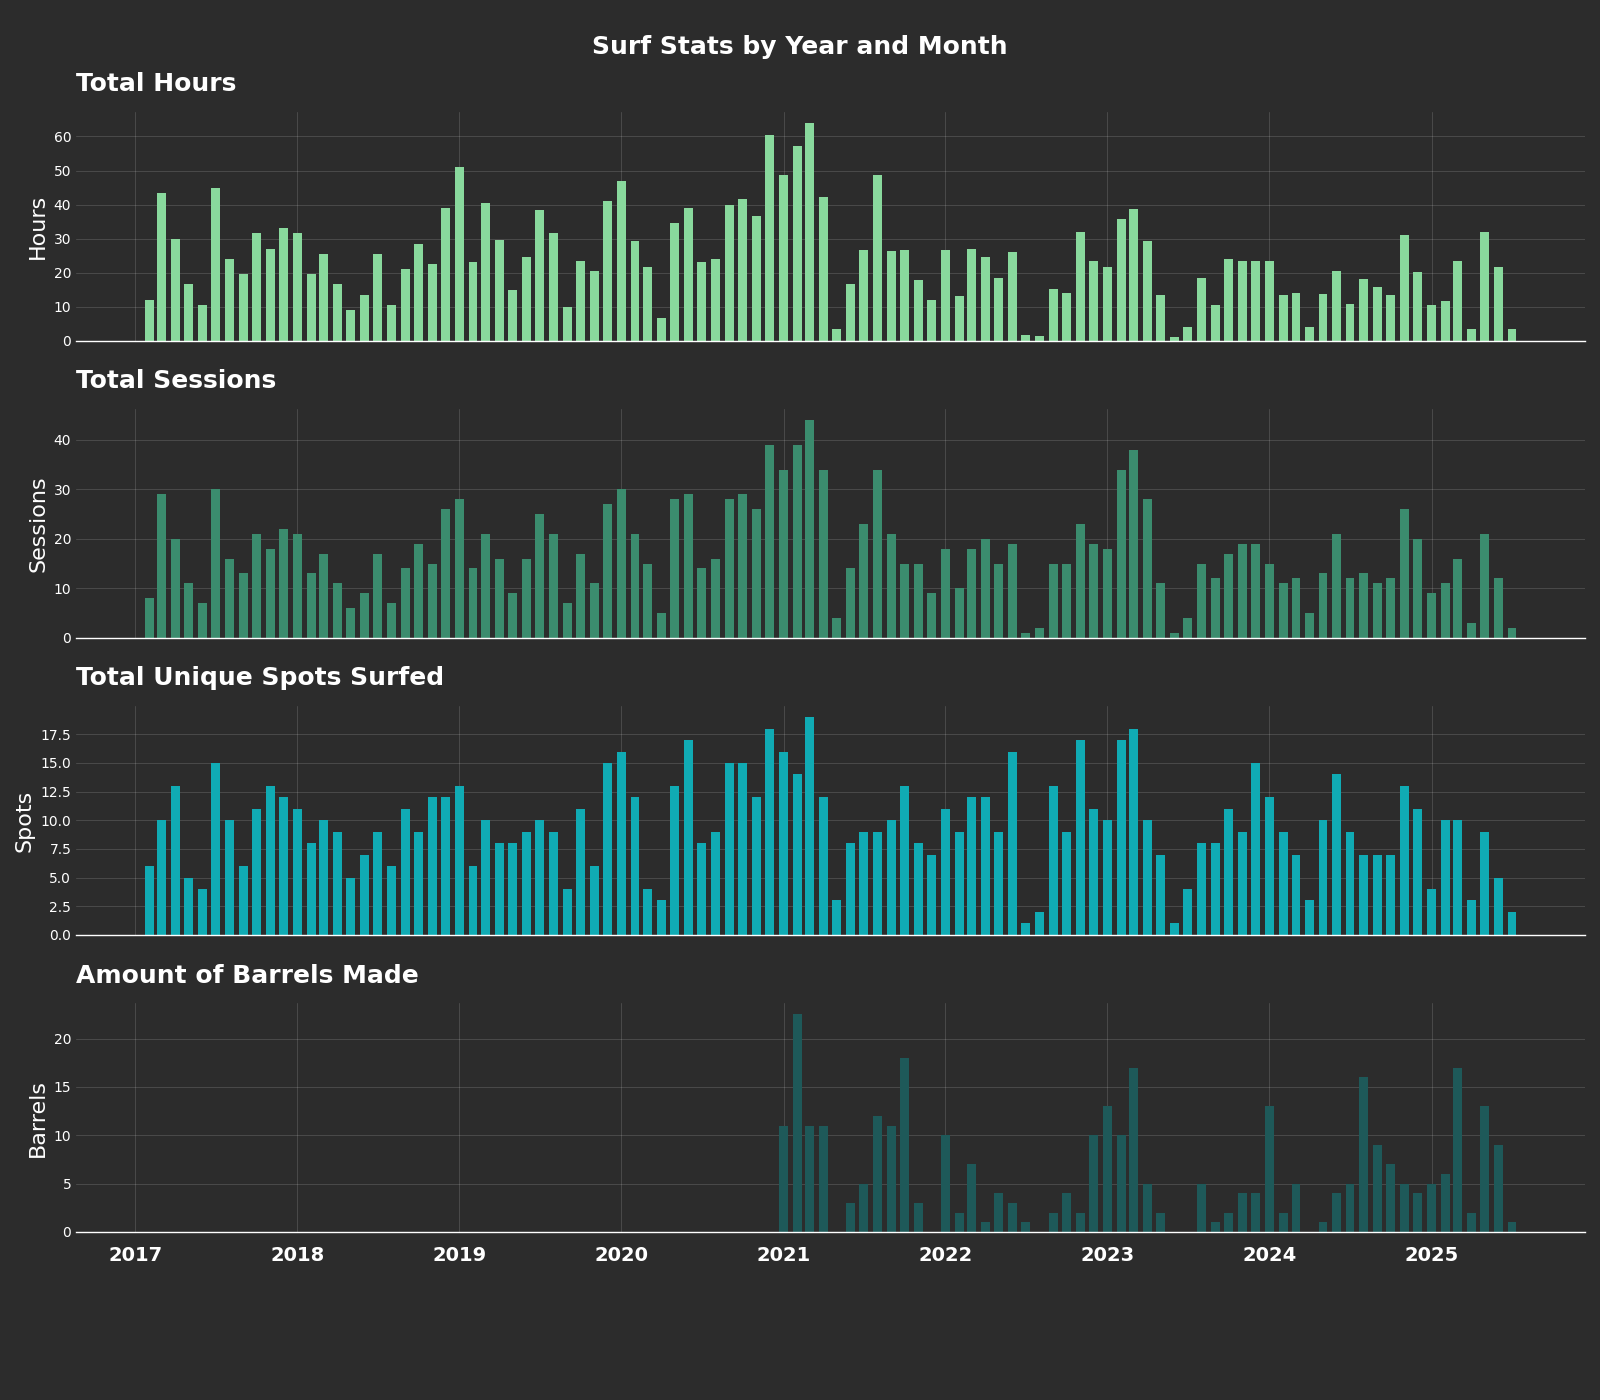
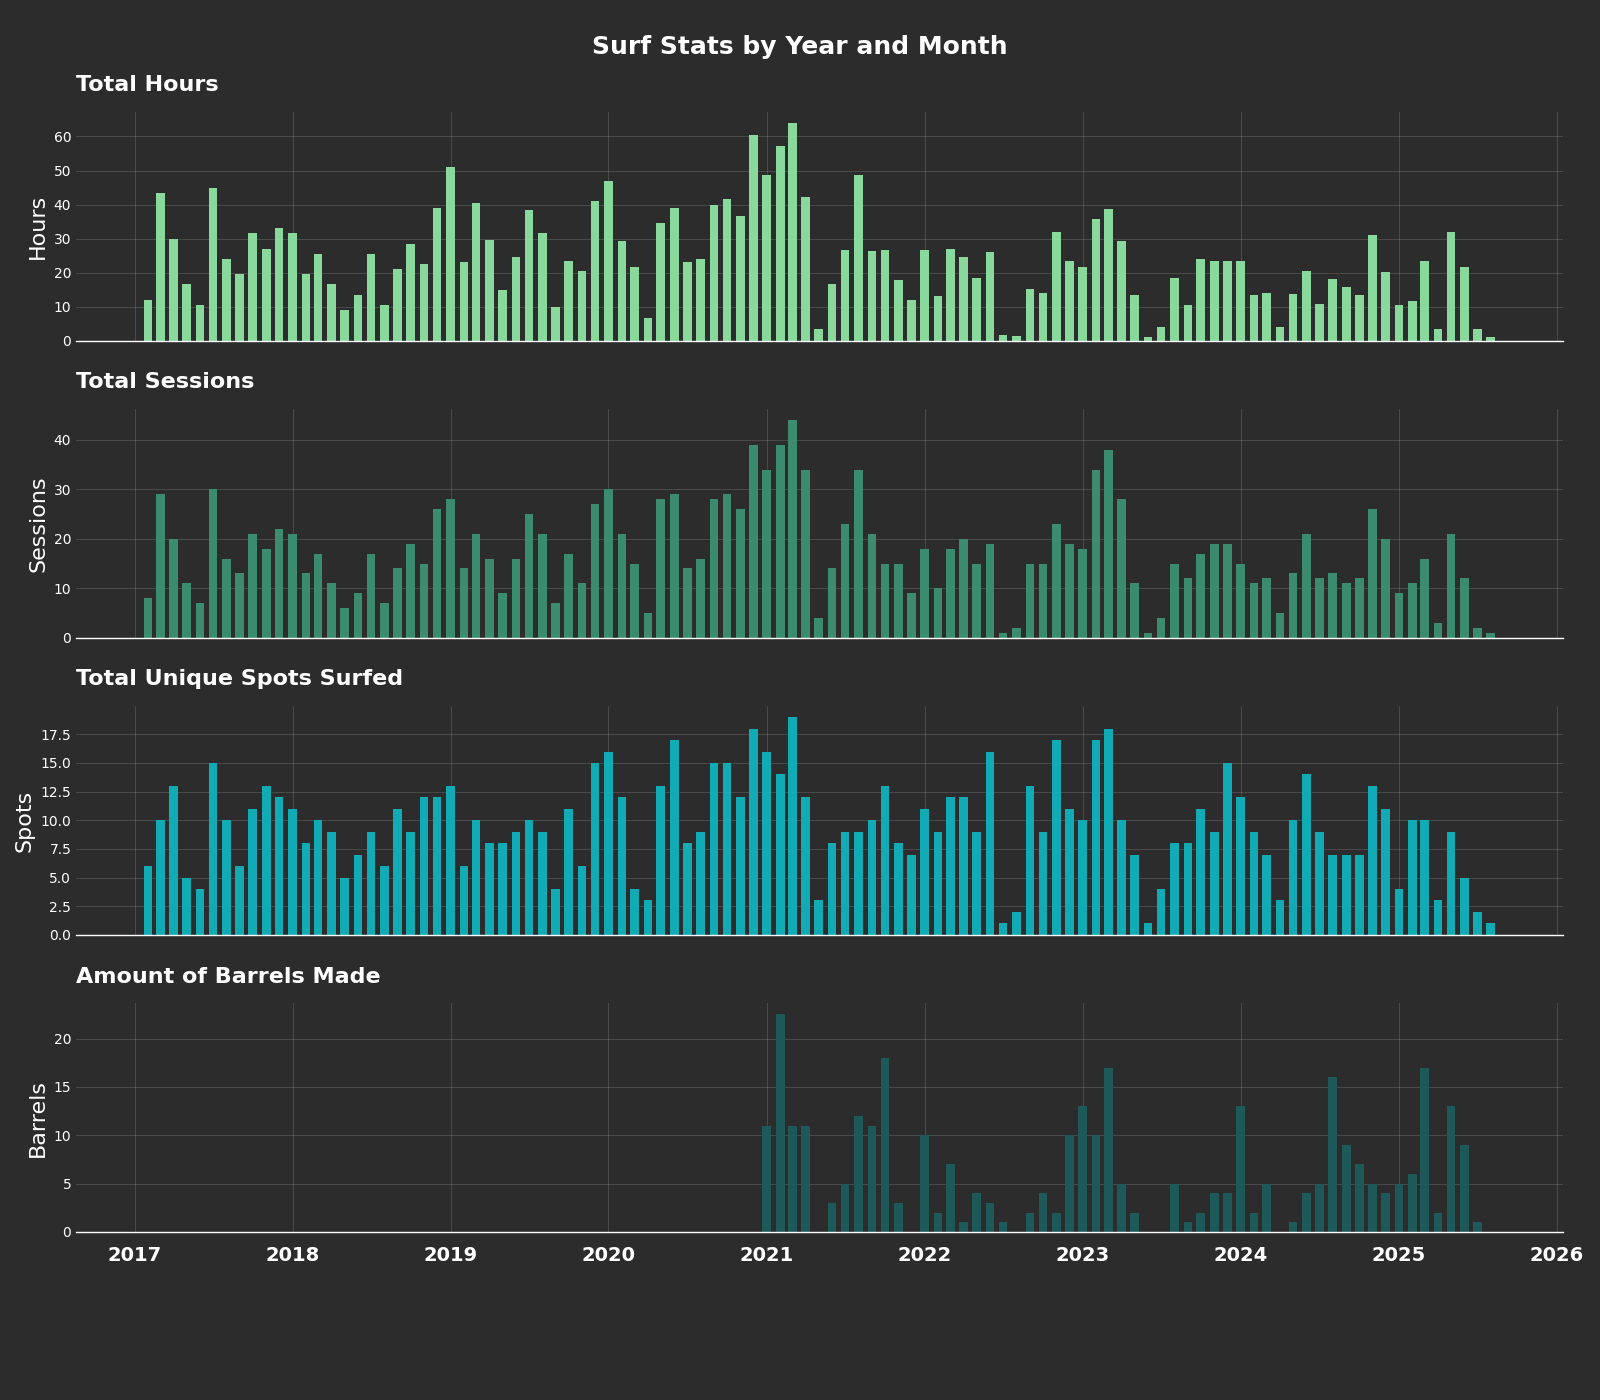
bunch of little changes

diff --git a/analysis/annual_plot.py b/analysis/annual_plot.py
@@ -2,11 +2,11 @@ import pandas as pd
 import matplotlib.pyplot as plt
 import matplotlib.dates as mdates
 
-from src.plot_setup import bg_color, main_palette
+from src.plot_setup import bg_color, main_palette, season_color_dict
 from src.utils import save_plt_dated
 
-def plot_annual_summaries(summary_df,
-                          plot_folder=None):
+def plot_annual_stats(summary_df,
+                      plot_folder=None):
     
     if 'year_month' in summary_df.columns:
         # Convert year_month to datetime for proper sorting and display
@@ -102,3 +102,92 @@ def plot_annual_summaries(summary_df,
     # Save
     if plot_folder:
         save_plt_dated(plot_folder, filename)
+        print(f"Plot saved as {filename} in {plot_folder}")
+
+
+
+def plot_seasonal_stats(summary_df, plot_folder=None, season_palette=season_color_dict):
+    """
+    Plots annual surf summaries, coloring bars by season.
+
+    Args:
+        summary_df (pd.DataFrame): Must contain columns 'year_month', 'season', and all relevant metrics.
+        plot_folder (str): Folder path for saving the plot.
+        season_palette (dict): Mapping from season name to color, e.g. {'Winter': '#1f77b4', ...}
+    """
+    # Ensure required columns are present
+    required_cols = ['year_month', 'season',
+                     'total_hours', 'total_sessions', 'total_unique_spots', 'total_barrels_made']
+    missing = [col for col in required_cols if col not in summary_df.columns]
+    if missing:
+        raise ValueError(f"Missing required columns in DataFrame: {missing}")
+
+    # Convert year_month to datetime for proper sorting and plotting
+    summary_df['year_month'] = pd.to_datetime(summary_df['year_month'], format='%Y-%m')
+    summary_df = summary_df.sort_values('year_month')
+
+    # Generate title and filename
+    plot_title = 'Surf Stats by Month and Season'
+    filename = 'surf_stats_bar_charts_by_month_season.png'
+
+    # Map color for each row
+    bar_colors = summary_df['season'].map(season_palette).fillna('#CCCCCC')
+
+    # Create the figure with 4 subplots stacked vertically
+    fig, axes = plt.subplots(4, 1, figsize=(16, 14), sharex=True)
+    fig.patch.set_facecolor(bg_color)
+
+    # Define metrics for each subplot
+    metrics = [
+        ('total_hours', 'Total Hours', 'Hours'),
+        ('total_sessions', 'Total Sessions', 'Sessions'),
+        ('total_unique_spots', 'Total Unique Spots Surfed', 'Spots'),
+        ('total_barrels_made', 'Amount of Barrels Made', 'Barrels')
+    ]
+
+    # Create bars for each subplot
+    for i, (metric, title, ylabel) in enumerate(metrics):
+        ax = axes[i]
+
+        # Add faint colored grid lines FIRST (behind bars)
+        ax.grid(True, alpha=0.2, linestyle='-', linewidth=0.5, color='white')
+        ax.set_axisbelow(True)
+
+        # Create bars colored by season
+        bars = ax.bar(summary_df['year_month'],
+                      summary_df[metric],
+                      color=bar_colors,
+                      width=20)
+
+        # Customize subplot
+        ax.set_title(title, fontsize=16, fontweight='bold', color='white', pad=15, loc='left')
+        ax.set_ylabel(ylabel, fontsize=16, color='white')
+        ax.set_facecolor(bg_color)
+        ax.spines['top'].set_visible(False)
+        ax.spines['right'].set_visible(False)
+        ax.spines['left'].set_visible(False)
+        ax.spines['bottom'].set_color('white')
+        ax.spines['bottom'].set_linewidth(1)
+        ax.tick_params(colors='white', labelsize=10, length=0)
+
+    # Remove tick marks and adjust x-axis labels for better readability
+    axes[-1].tick_params(length=0)
+
+    # Format x-axis as years
+    axes[-1].xaxis.set_major_formatter(mdates.DateFormatter('%Y'))
+    axes[-1].xaxis.set_major_locator(mdates.YearLocator())
+    labels = axes[-1].get_xticklabels()
+    [label.set_fontweight('bold') for label in labels]
+    axes[-1].tick_params(axis='x', labelsize=14, pad=10)
+
+    # Adjust layout to prevent overlap
+    plt.tight_layout()
+
+    # Add a main title with more space above top subplot
+    fig.suptitle(plot_title, fontsize=18, fontweight='bold', color='white', y=0.975)
+    plt.subplots_adjust(top=0.92, bottom=0.12, hspace=0.3)
+
+    # Save
+    if plot_folder:
+        save_plt_dated(plot_folder, filename)
+        print(f"Plot saved as {filename} in {plot_folder}")

diff --git a/main.py b/main.py
@@ -7,7 +7,10 @@ from src.process import process_surf_data
 from src.utils import check_n_distinct
 
 def main(check_data=False,
-         save_plots=False):
+         save_plots=False,
+         surf_wrapped=True,
+         print_summaries=True,
+         surfboard_analysis=True):
     """
     Main function to read, process, and visualize my surf data.
     """
@@ -76,14 +79,14 @@ def main(check_data=False,
     
     # Basic, single values per year and per year+month
     summary_by_year = create_simple_summary(surf_data_df, group_cols=['year'])
-    summary_by_year_month = create_simple_summary(surf_data_df, group_cols=['year', 'month'])
+    summary_by_year_month = create_simple_summary(surf_data_df, group_cols=['year', 'month', 'season'])
 
     # Ranked Summaries (dictionary objects)
     ranked_summary = create_ranked_summary(surf_data_df, by_year=False)
     ranked_summary_by_year = create_ranked_summary(surf_data_df)
     
     # view the dictionary of ranked summaries
-    print_summaries = False
+    
     if print_summaries:
         print("\nRanked Summary:")
         for key, value in ranked_summary.items():
@@ -93,13 +96,14 @@ def main(check_data=False,
             print(f"{key}:\n{value}\n")
 
     # ALL DATA ANALYSIS ----
-    from analysis.annual_plot import plot_annual_summaries
-    plot_annual_summaries(summary_by_year_month, plot_folder=plot_folder)
-    plot_annual_summaries(summary_by_year, plot_folder=plot_folder)
+    from analysis.annual_plot import plot_annual_stats, plot_seasonal_stats
+    plot_annual_stats(summary_by_year_month, plot_folder)
+    plot_annual_stats(summary_by_year, plot_folder)
+    plot_seasonal_stats(summary_by_year_month, plot_folder)
 
     # SURF DATA WRAPPED ----
     # create and save (as JSON) the data needed for the surfing-wrapped animation project
-    surf_wrapped = False
+    
     if surf_wrapped:
         from analysis.surfing_wrapped import create_surf_wrapped_json
         # Create the JSON output folder
@@ -107,7 +111,7 @@ def main(check_data=False,
         create_surf_wrapped_json(surf_data_df, summary_by_year, ranked_summary_by_year, json_output_folder)
 
     # SURFBOARD ANALYSIS ----
-    surfboard_analysis = False
+    
     if surfboard_analysis:
         from analysis.surfboards import (process_surfboard_hrs, 
                                          plot_surfboard_hrs,
@@ -147,6 +151,10 @@ def main(check_data=False,
 
     # SPOT ANALYSIS ----
     # Link historic NOAA data to surf-data and determine the conditions that lead to a spot being 'good' (i.e. wave quality of 8 or higher)
+    # TODO: ADD
+
+
+    # GEOSPATIAL ANALYSIS ----
     # TODO: ADD
 
     #TEMP

diff --git a/src/plot_setup.py b/src/plot_setup.py
@@ -12,13 +12,18 @@ region_color_dict = {'Southern CA': '#89D99D',
 
 # build dictionary to assign colors based on the the board state.
 # note, this order matters for the order of the legend!!
-board_state_color_dict = {'have':'#5db054', # green
-                          'gave away':'#e5ed87', # yellow
-                          'sold':'#f59e42', # 
+board_state_color_dict = {'have':'#5db054',
+                          'gave away':'#e5ed87',
+                          'sold':'#f59e42',
                           'broken':'#b05454'}
 
 # apply color for `when`
 time_of_day_color_dict = {'morning': '#89D99D',
-                    'midday':  '#3B8C6E',
-                    'evening': '#10ABB4',
-                    'night':   '#1E5959'}
+                          'midday':  '#3B8C6E',
+                          'evening': '#10ABB4',
+                          'night':   '#1E5959'}
+# apply color for `when`
+season_color_dict = {'Winter': '#10ABB4',
+                     'Spring':  '#5db054',
+                     'Summer': '#e5ed87',
+                     'Fall':   '#f59e42'}

diff --git a/analysis/regions.py b/analysis/regions.py
@@ -106,13 +106,16 @@ def plot_regions_across_time(plot_df,
     ax.xaxis.grid(color='lightgrey', linestyle='dashed', alpha=.5, lw=0.5)
 
     # Title
-    plt.suptitle('Hours Spent Surfing in Each Region (Relative)', color='w', fontweight='bold', fontsize=18)
+    plt.title('Hours Spent Surfing in Each Region', color='w', fontsize=16, fontweight='bold')
+    # sub title
+    plt.suptitle('Hours summed per month', color='w', fontsize=14)
 
     plt.tight_layout()
 
     if plot_folder:
         filename = 'region_hours_across_time.png'
         save_plt_dated(plot_folder, filename)
+        print(f"Plot saved as {filename} in {plot_folder}")
 
 def process_time_of_day(surf_data_df):
     time_of_day_df = surf_data_df.copy().dropna(subset=['when'])
@@ -188,3 +191,4 @@ def plot_time_of_day(time_of_day_df,
     if plot_folder:
         filename = 'time_of_day_by_region.png'
         save_plt_dated(plot_folder, filename)
+        print(f"Plot saved as {filename} in {plot_folder}")

diff --git a/src/process.py b/src/process.py
@@ -1,8 +1,7 @@
 from tracemalloc import start
 import pandas as pd
-import time
 
-from src.utils import to_snake_case, convert_numeric_columns, calc_avg_wave_height, check_row_counts, new_col_from_dict
+from src.utils import to_snake_case, convert_numeric_columns, calc_avg_wave_height, check_row_counts, assign_season
 
 
 # add regions (level above the regions defined in the sheet)
@@ -72,6 +71,9 @@ def process_surf_data(df,
 
     # add new parameter which is the "session value" which is the sum of wave quality, surf quality and barrel count
     df['session_value'] = (df[['wave_quality', 'surfing_quality', 'barrels_made']].sum(axis=1, skipna=True))
+
+    # add in the seasons
+    df['season'] = df['month'].apply(assign_season)
     
     return df
 

diff --git a/analysis/summarise.py b/analysis/summarise.py
@@ -112,6 +112,9 @@ def create_ranked_summary(surf_data_df, top_n=5, by_year=True):
         agg_type='sum',
         agg_col='barrels_made',
         by_year=by_year).rename(columns = {'agg': 'total_barrel_count'})
+    # remove zeros (I did not record barrels before 2021)
+    ranked_summary_dict['top_spots_by_barrels'] = ranked_summary_dict['top_spots_by_barrels'].query('total_barrel_count > 0')
+
     # Top Boards by Count
     ranked_summary_dict['top_boards_by_count'] = top_n_by_agg_type(
         surf_data_df,

diff --git a/analysis/surfboards.py b/analysis/surfboards.py
@@ -77,6 +77,7 @@ def plot_surfboard_hrs(surfboard_hrs_df,
     if plot_folder:
         filename = 'surfboard_hours_by_region.png'
         save_plt_dated(plot_folder, filename)
+        print(f"Plot saved as {filename} in {plot_folder}")
 
 
 
@@ -184,3 +185,4 @@ def plot_surfboard_lifetime(board_timeline_df,
     if plot_folder:
         filename = 'surfboard_timeline_df.png'
         save_plt_dated(plot_folder, filename)
+        print(f"Plot saved as {filename} in {plot_folder}")
